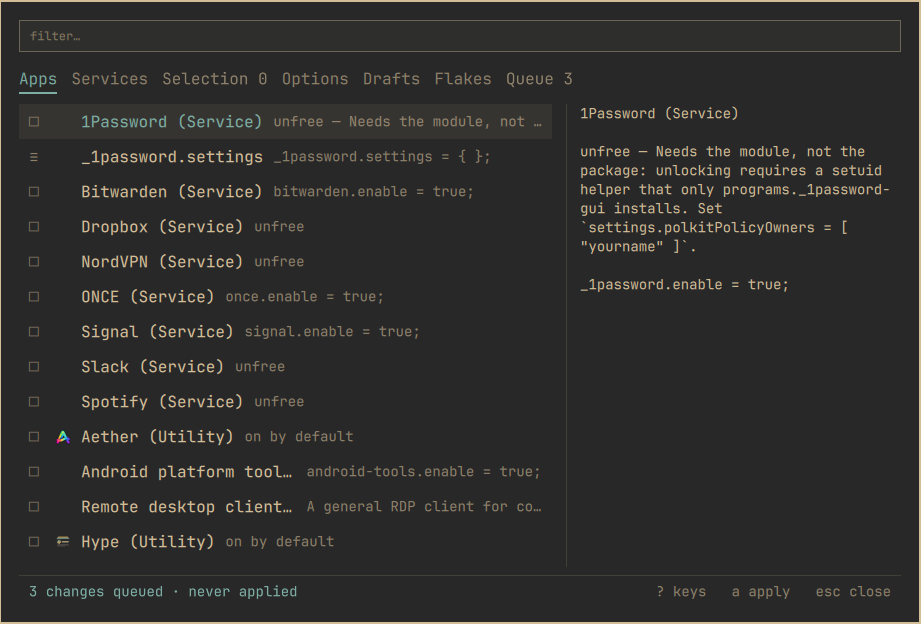
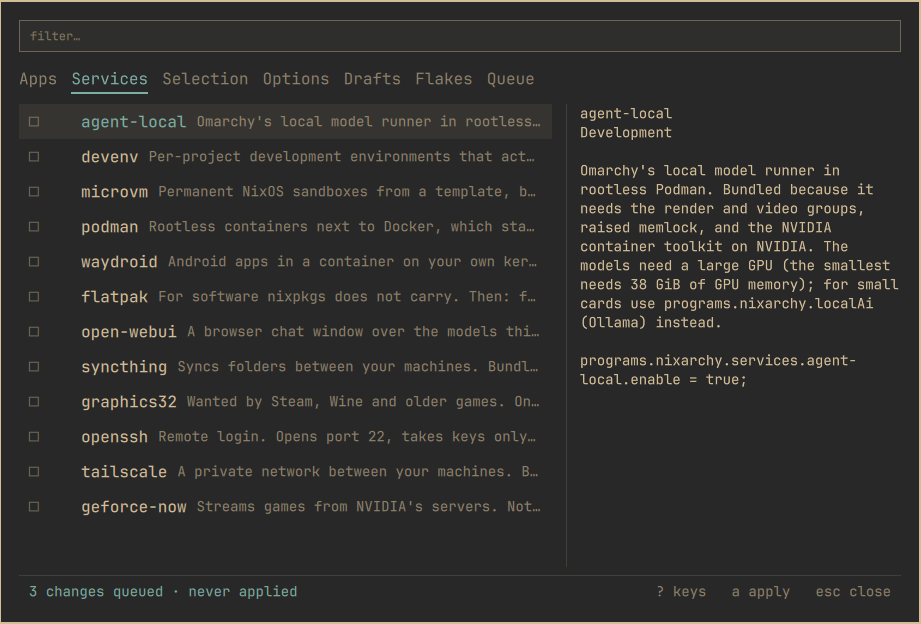
fix(card): rest the busy animation while the menu is hidden; review fixes (#56)
From the Opus review: the busy animation is gated on the window being
visible, the resting-row test also checks the hue, and 03-services.png is
#55's image again (the microVM dropped the key that opened Services).

Claude-Session: https://claude.ai/code/session_01WtDyDubftZDANveKdhaPiL

diff --git a/tests/qml/tst_card.qml b/tests/qml/tst_card.qml
@@ -263,7 +263,10 @@ TestCase {
   function test_resting_row_is_clear() {
     var lv = find(card, "QQuickListView")
     tryCompare(lv, "count", 3)
-    compare(lv.itemAtIndex(1).color.a, 0)
+    var c = lv.itemAtIndex(1).color
+    compare(c.a, 0)
+    // The same hue as the selection, not "transparent": a fade from black passes through grey.
+    verify(Qt.colorEqual(Qt.rgba(c.r, c.g, c.b, 1), Qt.rgba(card.selectedBg.r, card.selectedBg.g, card.selectedBg.b, 1)))
   }
 
   function test_tab_hover() {
@@ -289,6 +292,19 @@ TestCase {
       verify(!segment.visible, field + " hides the segment")
       verify(!card.busyAnimating, field + " stops motion")
     }
+  }
+
+  function test_busy_rule_rests_while_hidden() {
+    Style.reduceMotion = false
+    fakeModel.busy = true
+    verify(card.busyAnimating)
+    win.visible = false
+    try {
+      verify(!card.busyAnimating)
+    } finally {
+      win.visible = true
+    }
+    verify(card.busyAnimating)
   }
 
   function test_busy_rule_without_motion() {

diff --git a/Card.qml b/Card.qml
@@ -35,7 +35,8 @@ Item {
     // A running animation keeps its starting duration; a 0 ms loop could spin when motion resumes.
     duration: 1100
     loops: Animation.Infinite
-    running: root.waiting && !Style.reduceMotion
+    // Only while someone can see it: the Card outlives a closed menu.
+    running: root.waiting && !Style.reduceMotion && Boolean(root.Window.window && root.Window.window.visible)
   }
   // Apps and Services rows carry an icon; the other tabs don't.
   readonly property bool showIcons: root.model && root.model.tab <= 1

diff --git a/plan/2026-11-16-56-card-motion.md b/plan/2026-11-16-56-card-motion.md
@@ -441,6 +441,13 @@ microVM on Gruvbox, as the owner directed for #55, not on razer: 01, 03, 05,
 06 and 07, the set #55 retook, cropped to 921x624. The 1100x842 images are
 older captures and are left for a later retake.)
 
+(Review fixes, Opus review of the branch: the busy animation also needs the
+card's window to be visible, since the Card outlives a closed menu;
+`test_resting_row_is_clear` also compares the hue with `selectedBg`, so a
+return to "transparent" fails it; `docs/img/03-services.png` is #55's image
+from main, because the microVM dropped the key that should have opened
+Services.)
+
 ### 6. Coordinator: review, CI, PR, razer
 
 - **Review.** A fresh Opus agent gets this plan and `git diff main...HEAD`.
